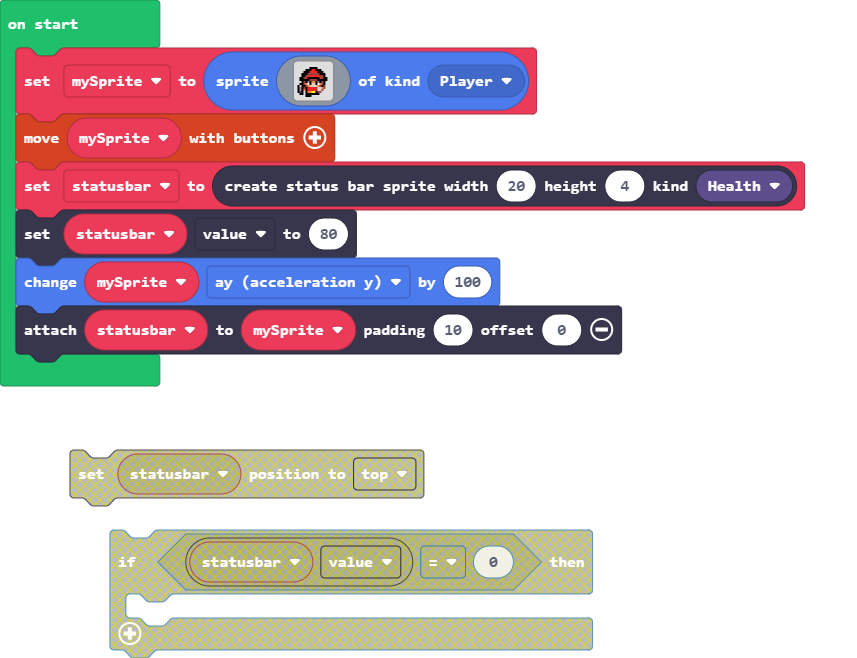
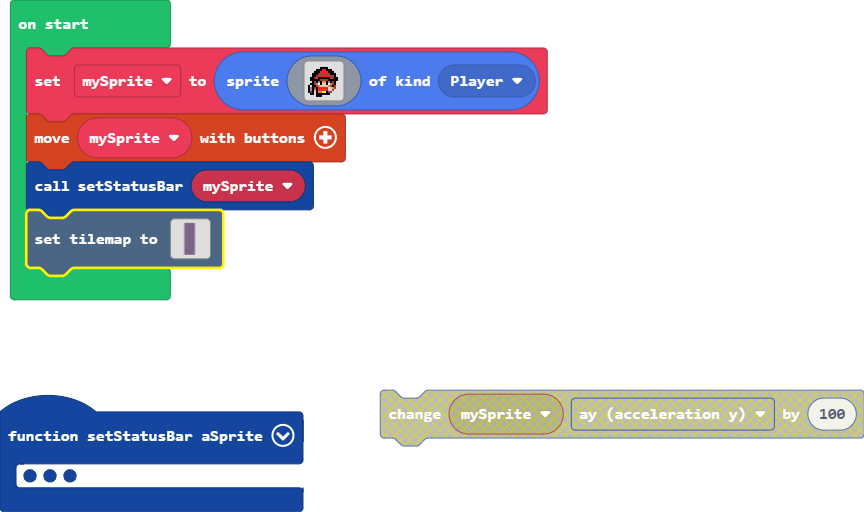
Update pxt.json, main.blocks, main.ts, tilemap.g.jres, tilemap.g.ts

diff --git a/tilemap.g.ts b/tilemap.g.ts
@@ -1,0 +1,73 @@
+// Auto-generated code. Do not edit.
+namespace myTiles {
+    //% fixedInstance jres blockIdentity=images._tile
+    export const transparency16 = image.ofBuffer(hex``);
+
+    helpers._registerFactory("tilemap", function(name: string) {
+        switch(helpers.stringTrim(name)) {
+            case "level1":
+            case "level1":return tiles.createTilemap(hex`100032000101010101010101010101010101010101010101010101010101010101010101010101010101010101010101010101010101010101010101010101010101010101010101010101010101010101010101010101010101010101010101010101010101010101010101010101010101010101010101010101010101010101010101010101010101010101010101010101010101010101010101010101010101010101010101010101010101010101010101010101010101010101010101010101010101010101010101010101010101010101010101010101010101010101010101010101010101010101010101010101010101010101010101010101010101010101010101010101010101010101010101010101010101010101010101010101010101010101010101010101010101010101010101010101010101010101010101010101010101010101010101010101010101010101010101010101010101010101010101010101010101010101010101010101010101010101010101010101010101010101010101010101010101010101010101010101010101010101010101010101010101010101010101010101010101010101010101010101010101010101010101010101010101010101010101010101010101010101010101010101010101010101010101010101010101010101010101010101010101010101010101010101010101010101010101010101010101010101010101010101010101010101010101010101010101010101010101010101010101010101010101010101010101010101010101010101010101010101010101010101010101010101010101010101010101010101010101010101010101010101010101010101010101010101010101010101010101010101010101010101010101010101010101010101010101010101010101010101010101010101010101010101010101010101010101010101010101010101010101010101010101010101010101010101010101010101010101010101010101010101010101010101010101010101010101010101010101010101010101010101010101010101010101010101010101010101010101`, img`
+................
+................
+................
+................
+................
+................
+................
+................
+................
+................
+................
+................
+................
+................
+................
+................
+................
+................
+................
+................
+................
+................
+................
+................
+................
+................
+................
+................
+................
+................
+................
+................
+................
+................
+................
+................
+................
+................
+................
+................
+................
+................
+................
+................
+................
+................
+................
+................
+................
+................
+`, [myTiles.transparency16,sprites.dungeon.darkGroundCenter], TileScale.Sixteen);
+        }
+        return null;
+    })
+
+    helpers._registerFactory("tile", function(name: string) {
+        switch(helpers.stringTrim(name)) {
+            case "transparency16":return transparency16;
+        }
+        return null;
+    })
+
+}
+// Auto-generated code. Do not edit.

diff --git a/main.ts b/main.ts
@@ -1,3 +1,9 @@
+function setStatusBar (aSprite: Sprite) {
+    statusbar = statusbars.create(20, 4, StatusBarKind.Health)
+    statusbar.value = 100
+    statusbar.attachToSprite(aSprite, 10, 0)
+}
+let statusbar: StatusBarSprite = null
 let mySprite = sprites.create(img`
     . . . . . . . . . . . . . . . . 
     . . . . . . f f f f . . . . . . 
@@ -17,7 +23,5 @@ let mySprite = sprites.create(img`
     . . . . f f f . . . . . . . . . 
     `, SpriteKind.Player)
 controller.moveSprite(mySprite)
-let statusbar = statusbars.create(20, 4, StatusBarKind.Health)
-statusbar.value = 80
-mySprite.ay += 100
-statusbar.attachToSprite(mySprite, 10, 0)
+setStatusBar(mySprite)
+tiles.setTilemap(tilemap`level1`)
